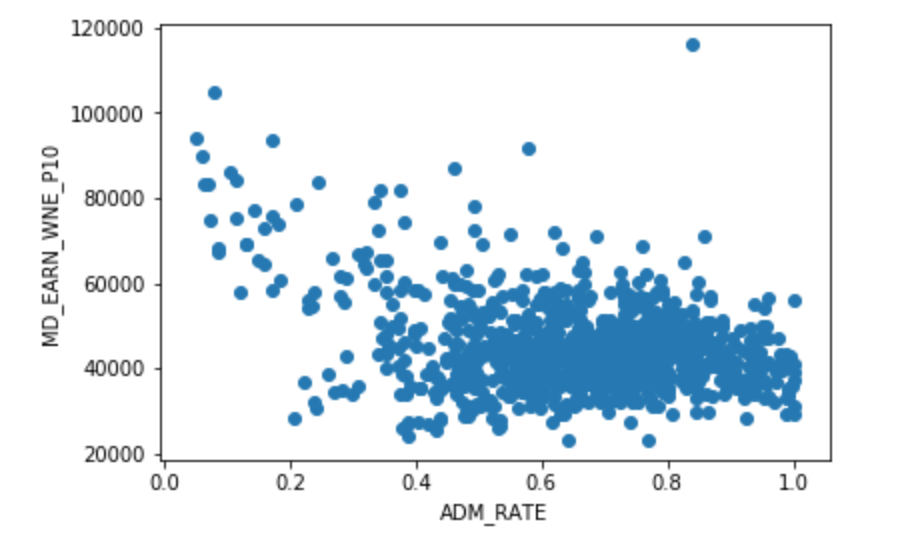
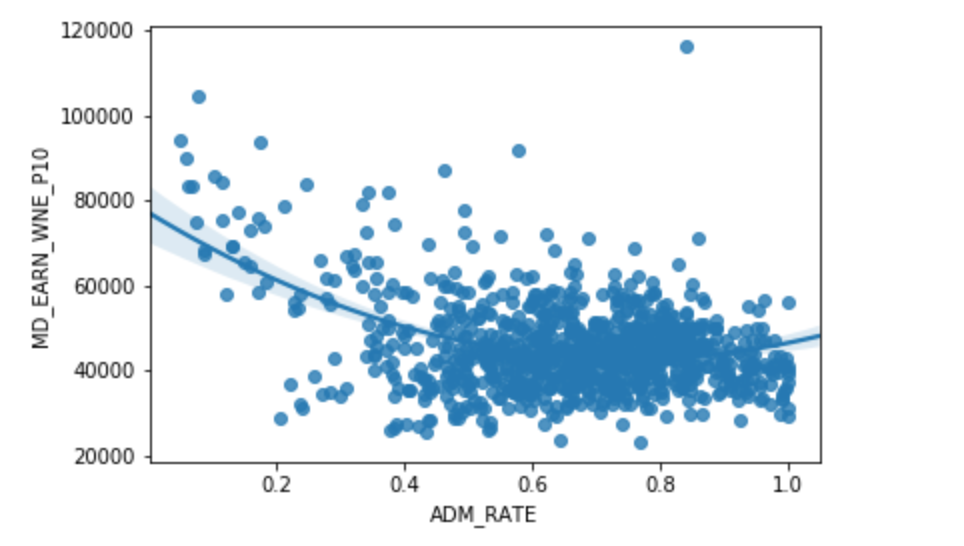
added diagrams

Changed region(s): [[0.0308, 0.0311, 0.9231, 0.9652], [0.7692, 0.4048, 0.8, 0.467], [0.6769, 0.6538, 0.7077, 0.685]]

diff --git a/blog.html b/blog.html
@@ -63,13 +63,29 @@ In the process of modeling this relationship, I made a couple of key simplifying
 assumptions. For one, I measured university graduates' "success" in life using only financial metrics, as they are quanitifiable and objective. Of course, financial outcomes don't tell the whole story about
 a person's happiness in life and career fulfillment, but that's an entirely different debate. In addition, I measured the quality of each university's student body using average SAT scores because they are one of the only universal metrics we have 
 to compare students from different educational backgrounds. Finally, I controlled
-for the median family income of students attending each university, as this captures some information about the financial demographics of universities' student bodies. 
+for the median family income of students attending each university, as this captures some information about the financial demographics of universities' students. 
+
+<br/>
+<br/>
+
+Before fitting any model, I sought to verify that there actually were significant relationships present in the data:
+
+<br/>
+<br/>
+
+<img src="img/sat.png" width="450" height="250">
+
+<img src="img/mdfaminc.png" width="450" height="250">
+
+<br/>
+
+The results weren't surprising:  both SAT scores and family income profiles are highly correlated with graduates' long-run earnings. People who did well
+in high school, and people who come from wealthy families to begin with, tend to have financial success themselves.
 
 
 <br/>
 <br/>
-<br/>
-I first considered the following structural model:
+With these sanity checks out of the way, I first considered the following structural model:
 
 <br/>
 <br/>
@@ -101,7 +117,7 @@ is, the better off its graduates are.
 <br/>
 <br/>
 This result is interesting, but it doesn't answer the question of whether or not selectivity has a causal effect on graduate outcomes. In other words,
-it doesn't imply anything about whether or not graduates from selective universities are better off \(because\) they attended a selective university or because
+it doesn't imply anything about whether or not graduates from selective universities are better off \(because\) they attended a selective university or
 because of some endogenous confounding factor not explained by the model. My gut feeling was that this relationship is probably not causal. Universities with
 highly visible brand names tend to attract far more applicants than relatively anonymous universities, lowering their acceptance rates, but these brand name universities
 are not always better than their less well-known counterparts.
